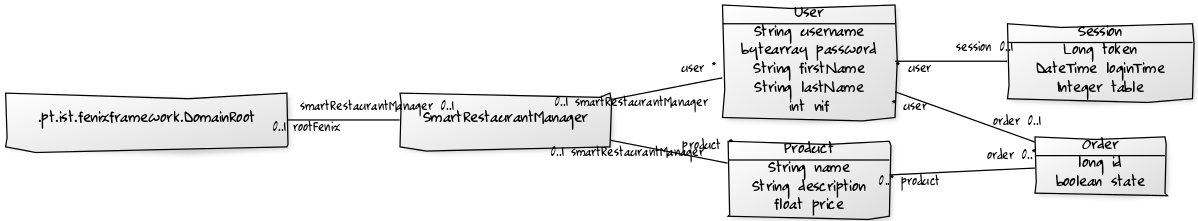
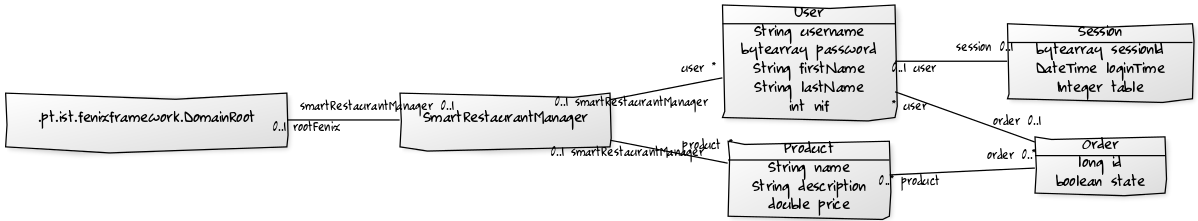
A great server is born!

diff --git a/smartrestaurant-ws/src/main/java/pt/tecnico/ulisboa/smartrestaurant/domain/SmartRestaurantManager.java b/smartrestaurant-ws/src/main/java/pt/tecnico/ulisboa/smartrestaurant/domain/SmartRestaurantManager.java
@@ -1,16 +1,35 @@
 package pt.tecnico.ulisboa.smartrestaurant.domain;
 
+import org.joda.time.DateTime;
 import pt.ist.fenixframework.FenixFramework;
+import pt.tecnico.ulisboa.smartrestaurant.exception.ProductDoesntExistException;
+import pt.tecnico.ulisboa.smartrestaurant.exception.UserLoginAlreadyExistsException;
+import pt.tecnico.ulisboa.smartrestaurant.exception.UserLoginDoesntExistException;
+
+import java.math.BigInteger;
+import java.nio.charset.StandardCharsets;
+import java.security.MessageDigest;
+import java.security.NoSuchAlgorithmException;
+import java.util.Arrays;
+import java.util.Random;
 
 public class SmartRestaurantManager extends SmartRestaurantManager_Base {
-    
+
+    private static final int TIMEOUT_SESSION_TIME = 1800;     // half an hour
+
     private SmartRestaurantManager() {
         FenixFramework.getDomainRoot().setSmartRestaurantManager(this);
         /*super.setFilesystem(new FileSystem(this));
         currentSession = new Session(generateToken(), getFilesystem().getGuest(),
                 getFilesystem().getGuest().getHomeDirectory(),this);
         addSession(currentSession);*/
-        System.out.println("Connected to Fenix Framework");
+        addProduct(new Product("Bife da Vazia", "Um soculento bife da Vazia que o irá fazer chorar por mais.", 12.99));
+        addProduct(new Product("Bacalhau à Lagareiro", "Experimente o que mais de Português nós temos, este bacalhau irá dar-lhe a volta à cabeça", 10.99));
+        addProduct(new Product("Cozido à Portuguesa", "O nome diz tudo!", 20.59));
+        addProduct(new Product("Francesinha", "Prove um prato típico do Norte do País, carago!", 7.56)); //TODO change this
+        addProduct(new Product("Sopa de Peixe", "Porque a sopa faz bem a todos!", 7.56));
+        addProduct(new Product("Leite Creme", "Experimente este belo leite creme queimado na hora!", 7.56));
+
     }
 
     public static SmartRestaurantManager getInstance(){
@@ -22,4 +41,117 @@ public class SmartRestaurantManager extends SmartRestaurantManager_Base {
 
         return new SmartRestaurantManager();
     }
+
+
+    void registerNewUser(String username, byte[] hashedPassword, String firstName, String lastName, int nif)
+            throws UserLoginAlreadyExistsException{
+        System.out.println(username + " is being registered.");
+
+        if(getUserByUsername(username) == null)
+            super.addUser(new User(username, hashedPassword, firstName, lastName, nif, this));
+        else throw new UserLoginAlreadyExistsException();
+    }
+
+    byte[] login(String username, byte[] hashedPassword, int tableNo) throws NoSuchAlgorithmException {
+        System.out.println(username + " is logging in...");
+
+        User user;
+        byte[] hashToken;
+        if((user = getUserByUsername(username)) == null) throw new UserLoginDoesntExistException();
+        else {
+            hashToken = generateToken();
+            Session s = new Session(hashToken, tableNo);
+            s.setUser(user);
+            user.setSession(s);
+            System.out.println(username + " is logged in.");
+            return hashToken;
+        }
+    }
+
+    void addRequestToOrder(byte[] sessionId, String productName){
+        Product product = getProductByName(productName);
+        if(product == null) throw new ProductDoesntExistException(productName);
+        else {
+            User u = getUserBySessionId(sessionId);
+            if(u.getOrder() == null){ // if there is not an active order
+                Order order = new Order(generateOrderId());
+                order.addProduct(product);
+                u.setOrder(order);
+            }else
+                u.getOrder().addProduct(product);
+            System.out.println("Adding " + productName + " to " + u.getFirstName() + " order.");
+        }
+    }
+
+    private User getUserByUsername(String username){
+        for(User u : getUserSet()){
+            if(u.getUsername().equals(username)) return u;
+        }
+        return null;
+    }
+
+    private User getUserBySessionId(byte[] sessionId){
+        for(User u : getUserSet()){
+            checkAndLogoutUser(u);
+            if(u.getSession() != null && Arrays.equals(u.getSession().getSessionId(), sessionId)) return u;
+        }
+        return null;
+    }
+
+
+    private Product getProductByName(String name){
+        for(Product p : getProductSet()){
+            if(p.getName().equals(name)) return p;
+        }
+        return null;
+    }
+
+    private byte[] generateToken() throws NoSuchAlgorithmException {
+        boolean notFound = true;
+        long token = 0;
+        byte[] tokenHash = null;
+        while(notFound) {
+            // Integers can be negative, so to assure unicity for tests we only consider the positive ones
+            long randomLong = new BigInteger(64, new Random()).longValue();
+            token = randomLong < 0 ? -randomLong : randomLong;
+            // Hashing
+            MessageDigest digest = MessageDigest.getInstance("SHA-256");
+            tokenHash = digest.digest(Long.toString(token).getBytes(StandardCharsets.UTF_8));
+
+            notFound = false;
+            for(User u : getUserSet()) {
+                if(u.getSession() != null) {
+                    checkAndLogoutUser(u);
+                    if (u.getSession() != null && Arrays.equals(u.getSession().getSessionId(), tokenHash) && !notFound)
+                        notFound = true;
+                }
+            }
+        }
+        return tokenHash;
+    }
+
+    private long generateOrderId()  {
+        boolean notFound = true;
+        long id = 0;
+        while(notFound) {
+            // Integers can be negative, so to assure unicity for tests we only consider the positive ones
+            long randomLong = new BigInteger(64, new Random()).longValue();
+            id = randomLong < 0 ? -randomLong : randomLong;
+            notFound = false;
+            for(User u : getUserSet()) {
+                if(u.getOrder() != null) {
+                    checkAndLogoutUser(u);
+                    if (u.getOrder().getId() == id && !notFound)
+                        notFound = true;
+                }
+            }
+        }
+        return id;
+    }
+
+    private void checkAndLogoutUser(User u) {
+        if(new DateTime().getMillis() - u.getSession().getLoginTime().getMillis() > TIMEOUT_SESSION_TIME)
+            u.setSession(null);
+    }
+
 }

diff --git a/smartrestaurant-ws/src/main/java/pt/tecnico/ulisboa/smartrestaurant/Application.java b/smartrestaurant-ws/src/main/java/pt/tecnico/ulisboa/smartrestaurant/Application.java
@@ -1,10 +1,15 @@
 package pt.tecnico.ulisboa.smartrestaurant;
 
+import pt.ist.fenixframework.FenixFramework;
+import pt.tecnico.ulisboa.smartrestaurant.domain.DomainFacade;
 import pt.tecnico.ulisboa.smartrestaurant.ws.KitchenServerImpl;
 import pt.tecnico.ulisboa.smartrestaurant.ws.OrderServerImpl;
 import pt.tecnico.ulisboa.smartrestaurant.ws.WaiterServerImpl;
 
 import javax.xml.ws.Endpoint;
+import java.nio.charset.StandardCharsets;
+import java.security.MessageDigest;
+import java.security.NoSuchAlgorithmException;
 import java.util.ArrayList;
 
 /**
@@ -32,6 +37,9 @@ public class Application {
                 System.out.printf("Starting %s%n", urls[i]);
                 endpoints.get(i).publish(urls[i]);
             }
+
+            interaction();
+
             // wait
             System.out.println("Awaiting connections");
             System.out.println("Press enter to shutdown");
@@ -53,6 +61,16 @@ public class Application {
             } catch (Exception e) {
                 System.out.printf("Caught exception when stopping: %s%n", e);
             }
+            FenixFramework.shutdown();
         }
+    }
+
+    private static void interaction() throws NoSuchAlgorithmException {
+        //Thread.sleep(2000);
+        MessageDigest digest = MessageDigest.getInstance("SHA-256");
+        byte[] hash = digest.digest("batata".getBytes(StandardCharsets.UTF_8));
+       // DomainFacade.getInstance().registerNewUser("francisco", hash, "Francisco", "Santos", 100);
+        byte[] sessionId = DomainFacade.getInstance().login("francisco", hash, 1);
+        DomainFacade.getInstance().addProductToOrder(sessionId, "Bife da Vazia");
     }
 }

diff --git a/smartrestaurant-ws/src/main/java/pt/tecnico/ulisboa/smartrestaurant/domain/DomainFacade.java b/smartrestaurant-ws/src/main/java/pt/tecnico/ulisboa/smartrestaurant/domain/DomainFacade.java
@@ -1,0 +1,33 @@
+package pt.tecnico.ulisboa.smartrestaurant.domain;
+
+import pt.ist.fenixframework.Atomic;
+import pt.tecnico.ulisboa.smartrestaurant.ws.*;
+
+import java.security.NoSuchAlgorithmException;
+
+/**
+ * Created by francisco on 13/11/2016.
+ */
+public class DomainFacade {
+
+    private static DomainFacade instance;
+    public static DomainFacade getInstance(){
+        if(instance == null) instance = new DomainFacade();
+        return instance;
+    }
+
+    @Atomic
+    public void registerNewUser(String username, byte[] hashedPassword, String firstName, String lastName, int nif){
+        SmartRestaurantManager.getInstance().registerNewUser(username, hashedPassword, firstName, lastName, nif);
+    }
+
+    @Atomic
+    public byte[] login(String username, byte[] hashedPassword,int tableNo) throws NoSuchAlgorithmException {
+        return SmartRestaurantManager.getInstance().login(username, hashedPassword, tableNo);
+    }
+
+    @Atomic
+    public void addProductToOrder(byte[] sessionId, String productName){
+        SmartRestaurantManager.getInstance().addRequestToOrder(sessionId, productName);
+    }
+}

diff --git a/smartrestaurant-ws/src/main/java/pt/tecnico/ulisboa/smartrestaurant/domain/User.java b/smartrestaurant-ws/src/main/java/pt/tecnico/ulisboa/smartrestaurant/domain/User.java
@@ -1,9 +1,28 @@
 package pt.tecnico.ulisboa.smartrestaurant.domain;
 
+import org.joda.time.DateTime;
+import pt.tecnico.ulisboa.smartrestaurant.exception.SessionExpiredException;
+
+
 public class User extends User_Base {
-    
+
+    private static final int TIMEOUT_SESSION_TIME = 1800;     // half an hour
+
+
     public User() {
         super();
     }
-    
+
+    public User(String username, byte[] hashedPassword, String firstname, String lastName, int nif, SmartRestaurantManager manager) {
+        super.setUsername(username);
+        super.setPassword(hashedPassword);
+        super.setFirstName(firstname);
+        super.setLastName(lastName);
+        super.setNif(nif);
+        super.setSmartRestaurantManager(manager);
+    }
+
+
+
+
 }

diff --git a/smartrestaurant-ws/src/main/java/pt/tecnico/ulisboa/smartrestaurant/ws/OrderServerImpl.java b/smartrestaurant-ws/src/main/java/pt/tecnico/ulisboa/smartrestaurant/ws/OrderServerImpl.java
@@ -21,17 +21,17 @@ public class OrderServerImpl implements OrderServer {
     }
 
     @Override
-    public List<Product> requestAllProducts() {
+    public List<String> requestAllProducts() {
         return null;
     }
 
     @Override
-    public List<Product> requestMyOrdersProducts(byte[] sessionId) {
+    public List<String> requestMyOrdersProducts(byte[] sessionId) {
         return null;
     }
 
     @Override
-    public void addProductToOrder(byte[] sessionId, Product product) {
+    public void addProductToOrder(byte[] sessionId, String productName) {
 
     }
 

diff --git a/smartrestaurant-ws/src/main/java/pt/tecnico/ulisboa/smartrestaurant/ws/OrderServer.java b/smartrestaurant-ws/src/main/java/pt/tecnico/ulisboa/smartrestaurant/ws/OrderServer.java
@@ -12,11 +12,11 @@ public interface OrderServer {
 
     byte[] login(String username, byte[] passwordSha2Hash);
 
-    List<Product> requestAllProducts();
+    List<String> requestAllProducts();
 
-    List<Product> requestMyOrdersProducts(byte[] sessionId);
+    List<String> requestMyOrdersProducts(byte[] sessionId);
 
-    void addProductToOrder(byte[] sessionId, Product product);
+    void addProductToOrder(byte[] sessionId, String productName);
 
     void orderProducts(byte[] sessionId);
 

diff --git a/smartrestaurant-ws/src/main/java/pt/tecnico/ulisboa/smartrestaurant/exception/ProductDoesntExistException.java b/smartrestaurant-ws/src/main/java/pt/tecnico/ulisboa/smartrestaurant/exception/ProductDoesntExistException.java
@@ -1,0 +1,18 @@
+package pt.tecnico.ulisboa.smartrestaurant.exception;
+
+/**
+ * Created by francisco on 13/11/2016.
+ */
+public class ProductDoesntExistException extends SmartRestaurantException {
+
+    private String name;
+
+    public ProductDoesntExistException(String name) {
+        this.name = name;
+    }
+
+    @Override
+    public String getMessage() {
+        return name + " doesn't exists.";
+    }
+}

diff --git a/smartrestaurant-ws/src/main/java/pt/tecnico/ulisboa/smartrestaurant/exception/SessionExpiredException.java b/smartrestaurant-ws/src/main/java/pt/tecnico/ulisboa/smartrestaurant/exception/SessionExpiredException.java
@@ -1,0 +1,18 @@
+package pt.tecnico.ulisboa.smartrestaurant.exception;
+
+/**
+ * Created by francisco on 13/11/2016.
+ */
+public class SessionExpiredException extends SmartRestaurantException {
+
+    private String name;
+
+    public SessionExpiredException(String name) {
+        this.name = name;
+    }
+
+    @Override
+    public String getMessage() {
+        return name + " expired.";
+    }
+}

diff --git a/smartrestaurant-ws/src/main/java/pt/tecnico/ulisboa/smartrestaurant/domain/Session.java b/smartrestaurant-ws/src/main/java/pt/tecnico/ulisboa/smartrestaurant/domain/Session.java
@@ -1,9 +1,17 @@
 package pt.tecnico.ulisboa.smartrestaurant.domain;
 
+import org.joda.time.DateTime;
+
 public class Session extends Session_Base {
     
     public Session() {
         super();
+    }
+
+    Session(byte[] sessionId, int tableNo){
+        setSessionId(sessionId);
+        super.setTable(tableNo);
+        super.setLoginTime(new DateTime());
     }
     
 }

diff --git a/smartrestaurant-ws/src/main/java/pt/tecnico/ulisboa/smartrestaurant/exception/UserLoginAlreadyExistsException.java b/smartrestaurant-ws/src/main/java/pt/tecnico/ulisboa/smartrestaurant/exception/UserLoginAlreadyExistsException.java
@@ -1,0 +1,12 @@
+package pt.tecnico.ulisboa.smartrestaurant.exception;
+
+/**
+ * Created by francisco on 13/11/2016.
+ */
+public class UserLoginAlreadyExistsException extends SmartRestaurantException {
+
+    @Override
+    public String getMessage() {
+        return "A user with that login already exists.";
+    }
+}

diff --git a/smartrestaurant-ws/src/main/java/pt/tecnico/ulisboa/smartrestaurant/exception/UserLoginDoesntExistException.java b/smartrestaurant-ws/src/main/java/pt/tecnico/ulisboa/smartrestaurant/exception/UserLoginDoesntExistException.java
@@ -1,0 +1,12 @@
+package pt.tecnico.ulisboa.smartrestaurant.exception;
+
+/**
+ * Created by francisco on 13/11/2016.
+ */
+public class UserLoginDoesntExistException extends SmartRestaurantException {
+
+    @Override
+    public String getMessage() {
+        return "A user with that login doesn't exists.";
+    }
+}

diff --git a/smartrestaurant-ws/src/main/java/pt/tecnico/ulisboa/smartrestaurant/domain/Product.java b/smartrestaurant-ws/src/main/java/pt/tecnico/ulisboa/smartrestaurant/domain/Product.java
@@ -5,5 +5,11 @@ public class Product extends Product_Base {
     public Product() {
         super();
     }
+
+    Product(String productName, String productDescription, double price){
+        setName(productName);
+        setDescription(productDescription);
+        setPrice(price);
+    }
     
 }
